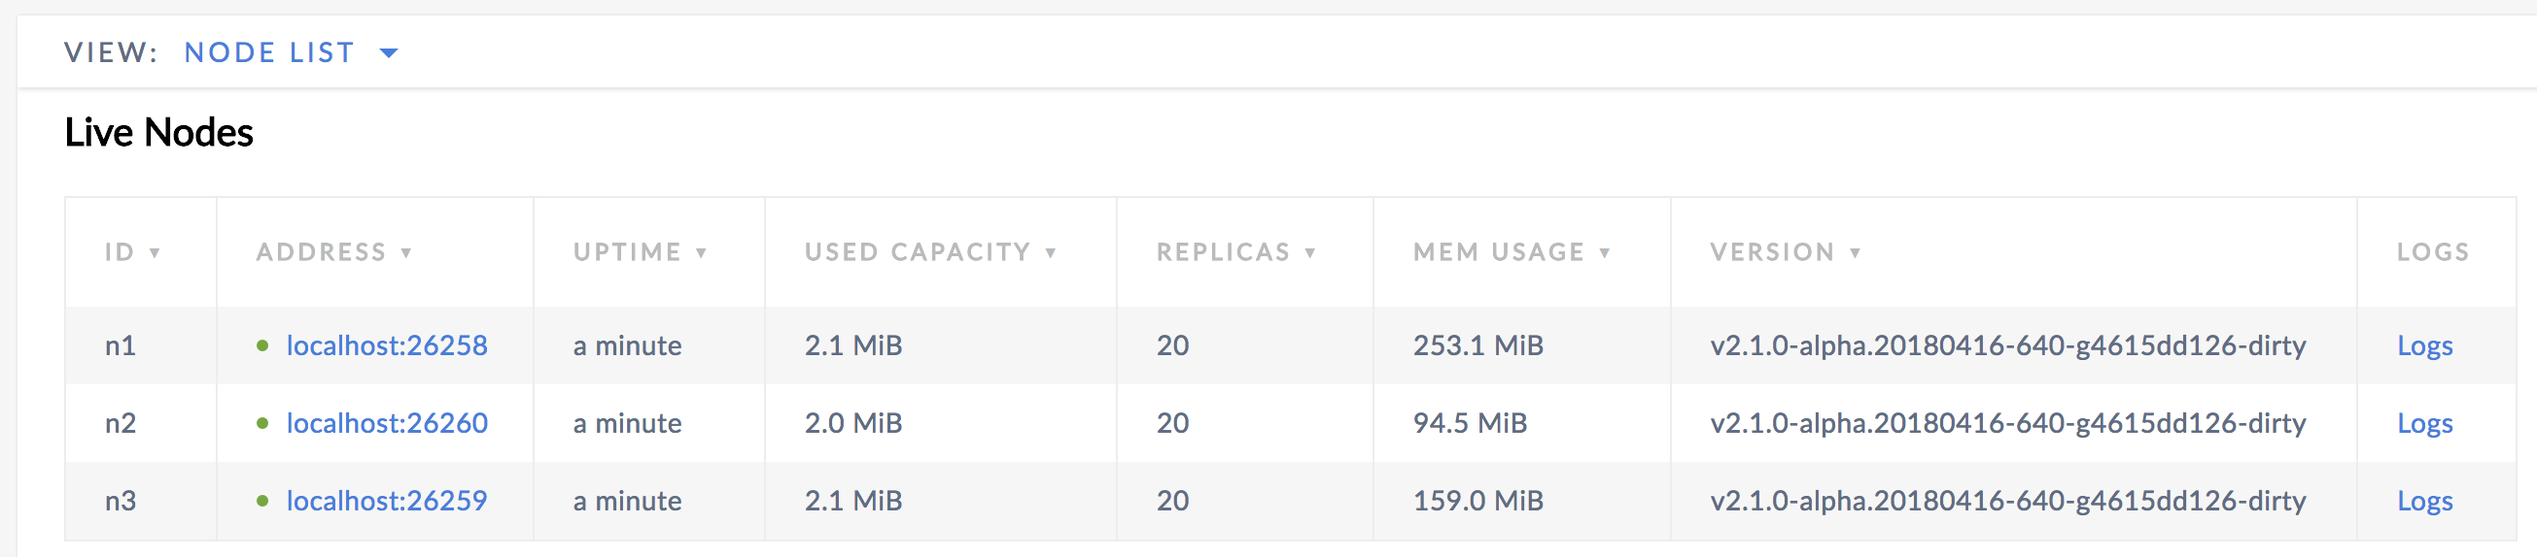
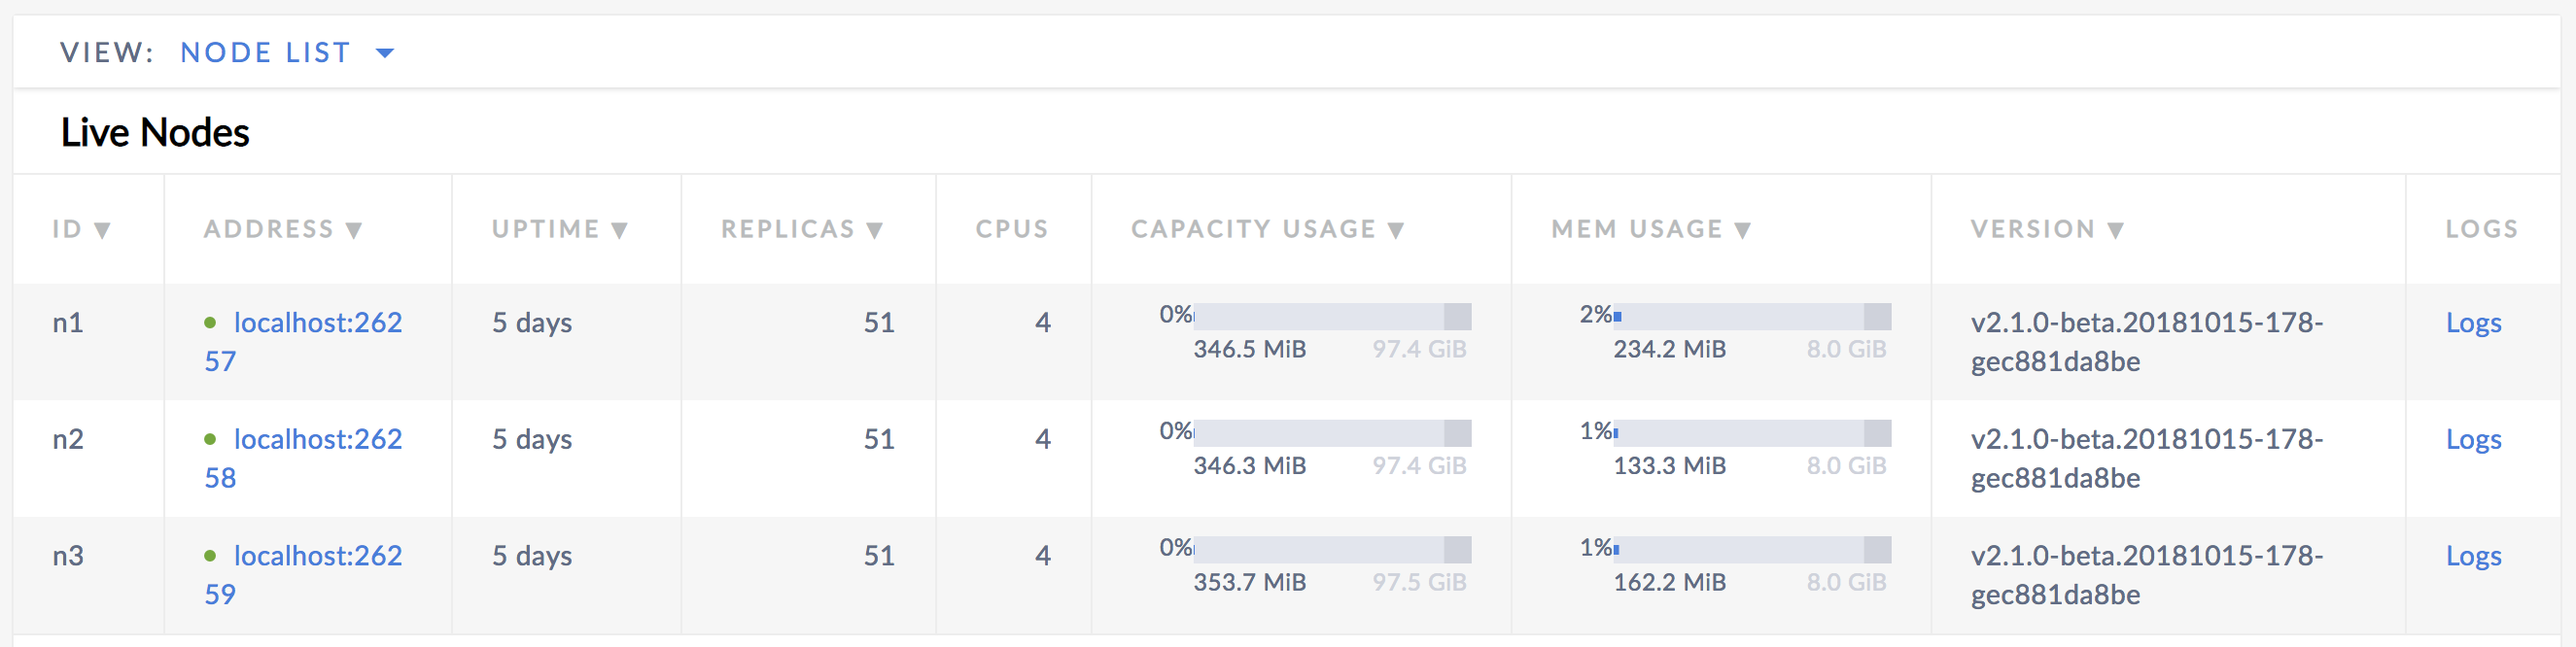
Added info about node list bar graph and percentage depictions

diff --git a/v2.1/admin-ui-cluster-overview-page.md b/v2.1/admin-ui-cluster-overview-page.md
@@ -13,7 +13,7 @@ The **Cluster Overview** panel provides the following metrics:
 
 Metric | Description
 --------|----
-Capacity Usage | <ul><li>The storage capacity used as a percentage of total storage capacity allocated across all nodes.</li><li>The current capacity usage.</li></ul>
+Capacity Usage | <ul><li>Used capacity: The storage capacity used by CockroachDB (represented as a percentage of total storage capacity allocated across all nodes).</li><li>Usable capacity: The sum of the storage capacity used by CockroachDB as well as capacity available for use by CockroachDB.</li></ul>
 Node Status | <ul><li>The number of [live nodes](#live-nodes) in the cluster.</li><li>The number of suspect nodes in the cluster. A node is considered a suspect node if it's liveness status is unavailable or the node is in the process of decommissioning.</li><li>The number of [dead nodes](#dead-nodes) in the cluster.</li>
 Replication Status | <ul><li>The total number of ranges in the cluster.</li><li>The number of [under-replicated ranges](admin-ui-replication-dashboard.html#review-of-cockroachdb-terminology) in the cluster. A non-zero number indicates an unstable cluster.</li><li>The number of [unavailable ranges](admin-ui-replication-dashboard.html#review-of-cockroachdb-terminology) in the cluster. A non-zero number indicates an unstable cluster.</li>
 
@@ -32,11 +32,12 @@ Column | Description
 ID | The ID of the node.
 Address | The address of the node. You can click on the address to view further details about the node.
 Uptime | How long the node has been running.
-Used Capacity | The used capacity for the node.
 Replicas | The number of replicas on the node.
-Mem Usage | The memory usage for the node.
+CPUs | The number of CPUs on the machine.
+Capacity Usage | The storage capacity used by CockroachDB (represented as a bar graph as well as a percentage of total storage capacity).
+Mem Usage | The memory usage for the node (represented as a bar graph as well as a percentage of the total memory).
 Version | The build tag of the CockroachDB version installed on the node.
-Logs | Click **Logs** to see the logs for the node.
+Logs | Click **Logs** to see detailed logs for the node.
 
 ### Dead Nodes
 

diff --git a/v2.1/admin-ui-access-and-navigate.md b/v2.1/admin-ui-access-and-navigate.md
@@ -26,7 +26,7 @@ To log out of the Admin UI, click the **Log Out** link at the bottom of the left
 
 ## Navigate the Admin UI
 
-The left-hand navigation bar allows you to navigate to the [Cluster Overview page](admin-ui-access-and-navigate.html), [cluster metrics dashboards](admin-ui-overview.html), the [Databases page](admin-ui-databases-page.html), the [Jobs page](admin-ui-jobs-page.html), and the [Advanced Debugging page](admin-ui-debug-pages.html).
+The left-hand navigation bar allows you to navigate to the [Cluster Overview page](admin-ui-access-and-navigate.html), [cluster metrics dashboards](admin-ui-overview.html), the [Databases page](admin-ui-databases-page.html), the [Statements](admin-ui-statements-page.html) page, the [Jobs page](admin-ui-jobs-page.html), and the [Advanced Debugging page](admin-ui-debug-pages.html).
 
 The main panel display changes for each page:
 
